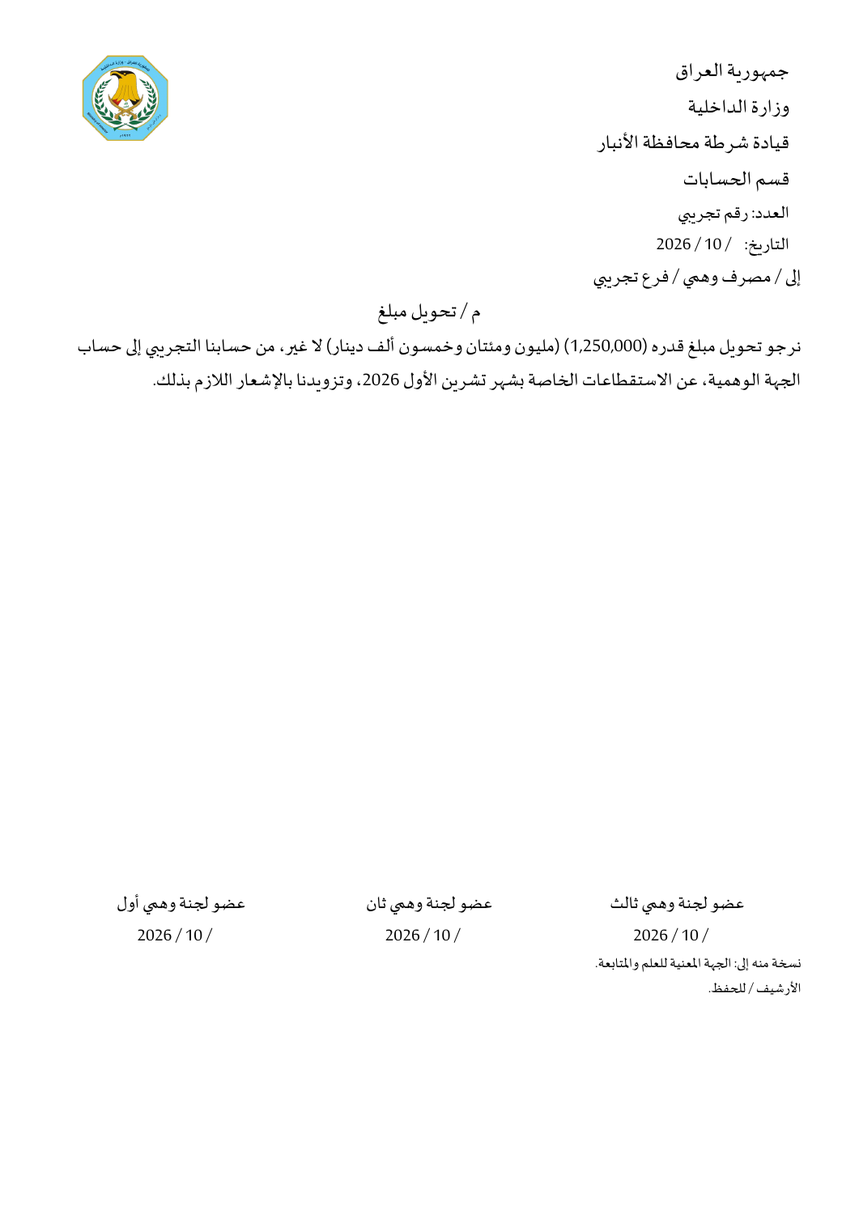
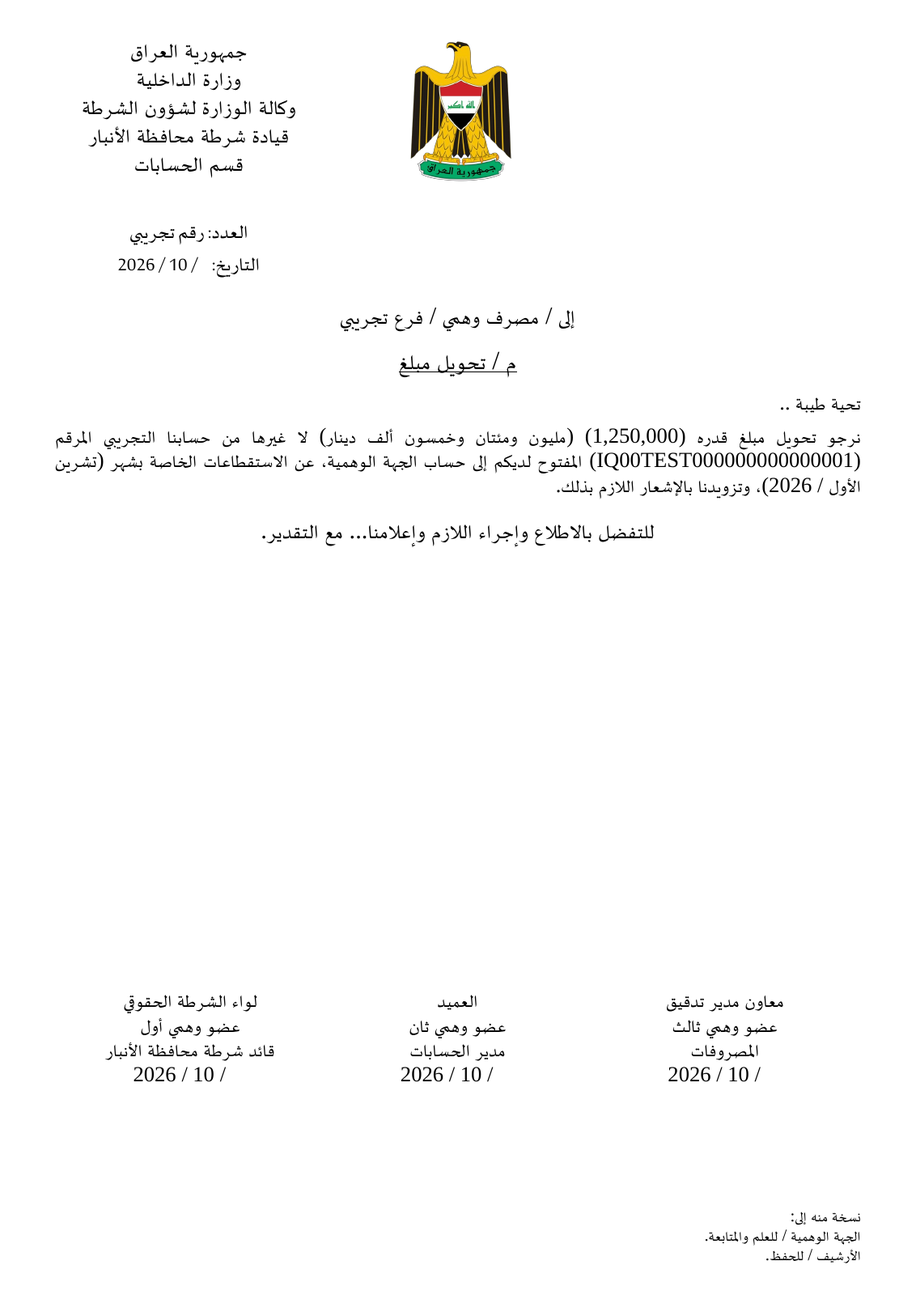
Align transfer PDF layout with original letter references

diff --git a/SalaryApp/TransferAdaptivePDF.swift b/SalaryApp/TransferAdaptivePDF.swift
@@ -31,6 +31,8 @@ nonisolated enum TransferAdaptivePDF {
     private struct TextLine {
         let text: String
         let font: CTFont
+        let underline: Bool
+        let justify: Bool
         let height: CGFloat
         let ascent: CGFloat
     }
@@ -54,7 +56,7 @@ nonisolated enum TransferAdaptivePDF {
         guard let face = UIFont(name: name, size: size) else { throw Failure.noFont }
         return CTFontCreateWithName(face.fontName as CFString, size, nil)
     }
-    private static func lines(_ text: String, font: CTFont, width: CGFloat) throws -> [TextLine] {
+    private static func lines(_ text: String, font: CTFont, width: CGFloat, underline: Bool = false, justify: Bool = false, spacing: CGFloat = 3) throws -> [TextLine] {
         guard text.utf8.count <= 100_000, width > 8 else { throw Failure.invalid }
         if text.isEmpty { return [] }
         let attr = NSAttributedString(string: text, attributes: [
@@ -62,7 +64,7 @@ nonisolated enum TransferAdaptivePDF {
             NSAttributedString.Key(kCTParagraphStyleAttributeName as String): rtl
         ])
         let typesetter = CTTypesetterCreateWithAttributedString(attr)
-        let height = ceil(CTFontGetAscent(font) + CTFontGetDescent(font) + CTFontGetLeading(font)) + 3
+        let height = ceil(CTFontGetAscent(font) + CTFontGetDescent(font) + CTFontGetLeading(font)) + spacing
         var result: [TextLine] = [], offset = 0
         while offset < attr.length {
             if result.count.isMultiple(of: 128) { try Task.checkCancellation() }
@@ -72,7 +74,9 @@ nonisolated enum TransferAdaptivePDF {
             let measured = CTLineGetTypographicBounds(line, nil, nil, nil) - CTLineGetTrailingWhitespaceWidth(line)
             guard measured <= Double(width) + 0.5 else { throw Failure.doesNotFit }
             let value = (text as NSString).substring(with: NSRange(location: offset, length: count))
-            result.append(TextLine(text: value, font: font, height: height, ascent: CTFontGetAscent(font)))
+            result.append(TextLine(text: value, font: font, underline: underline,
+                                   justify: justify && offset + count < attr.length && !value.hasSuffix("\n"),
+                                   height: height, ascent: CTFontGetAscent(font)))
             guard result.count <= 20_000 else { throw Failure.doesNotFit }
             offset += count
         }
@@ -82,18 +86,21 @@ nonisolated enum TransferAdaptivePDF {
                       sakkalBold: Data?, group: Bool) throws {
         guard blocks.count >= 7, !FileManager.default.fileExists(atPath: destination.path),
               case let .paragraph(header) = blocks[0], case let .paragraph(reference) = blocks[1],
-              let logo = UIImage(named: "HomeLogo")?.cgImage else { throw Failure.invalid }
+              let logo = UIImage(named: "IraqEmblem")?.cgImage else { throw Failure.invalid }
         let headerFont = try font(header, sakkal: sakkalBold)
         let refFont = try font(reference, sakkal: sakkalBold)
-        let headerLines = try lines(header.text, font: headerFont, width: contentWidth - 86)
-        let refLines = try lines(reference.text, font: refFont, width: contentWidth - 86)
-        let fixedHeight = (headerLines + refLines).reduce(CGFloat.zero) { $0 + $1.height }
-        guard !headerLines.isEmpty, !refLines.isEmpty, fixedHeight <= 205 else { throw Failure.doesNotFit }
+        let headingWidth: CGFloat = 190
+        let headerLines = try lines(header.text, font: headerFont, width: headingWidth)
+        let refLines = try lines(reference.text, font: refFont, width: headingWidth)
+        guard !headerLines.isEmpty, !refLines.isEmpty,
+              headerLines.reduce(CGFloat.zero, { $0 + $1.height }) <= 123,
+              refLines.reduce(CGFloat.zero, { $0 + $1.height }) <= 58 else { throw Failure.doesNotFit }
         var pages: [[Draw]] = [[]]
-        var y: CGFloat = margin
+        var y: CGFloat = 23
         // يترك المتن مساحة ثابتة للتواقيع والنسخ أسفل صفحة الكتاب.
-        var limit: CGFloat = 640
+        var limit: CGFloat = 590
         var expectingFooter = false
+        var signatureEnd: CGFloat?
         func add(_ operation: Draw) { pages[pages.count - 1].append(operation) }
         func nextPage() throws {
             guard pages.count < 4000 else { throw Failure.doesNotFit }
@@ -106,11 +113,21 @@ nonisolated enum TransferAdaptivePDF {
                 y += line.height
             }
         }
-        add(.logo(CGRect(x: margin, y: margin, width: 66, height: 66)))
-        try addLines(headerLines, x: margin + 86, width: contentWidth - 86, flush: 1)
-        try addLines(refLines, x: margin + 86, width: contentWidth - 86, flush: 1)
-        y = max(y, margin + 72) + 10
+        // مواضع ثابتة مأخوذة من هيئة النماذج: الترويسة يساراً وشعار الجمهورية وسط الصفحة.
+        add(.logo(CGRect(x: 271.2, y: 36.1, width: 86.4, height: 107.9)))
+        try addLines(headerLines, x: 28, width: headingWidth, flush: 0.5)
+        y = max(150, y + 8)
+        try addLines(refLines, x: 28, width: headingWidth, flush: 1)
+        y = max(220, y + 12)
         var afterBreak = false
+        var needsClosing = false
+        func addClosing() throws {
+            let closing = TransferWordDocument.Paragraph(text: "للتفضل بالاطلاع وإجراء اللازم وإعلامنا... مع التقدير.", font: "Times New Roman", halfPoints: 32, bold: true, centered: true)
+            let closingFont = try font(closing, sakkal: sakkalBold)
+            y += 15
+            try addLines(lines(closing.text, font: closingFont, width: contentWidth), x: margin, width: contentWidth, flush: 0.5)
+            needsClosing = false
+        }
         for block in blocks.dropFirst(2) {
             try Task.checkCancellation()
             switch block {
@@ -118,11 +135,25 @@ nonisolated enum TransferAdaptivePDF {
                 guard !expectingFooter else { throw Failure.invalid }
                 try nextPage(); limit = bottom; afterBreak = true
             case .paragraph(let p):
+                if needsClosing && p.text.hasPrefix("المرفقات:") { try addClosing() }
+                if p.text.hasPrefix("نرجو تحويل مبلغ قدره") {
+                    y += 18
+                    let salutation = TransferWordDocument.Paragraph(text: "تحية طيبة ..", font: "Times New Roman", halfPoints: 28, bold: true)
+                    let salutationFont = try font(salutation, sakkal: sakkalBold)
+                    try addLines(lines(salutation.text, font: salutationFont, width: contentWidth), x: margin, width: contentWidth, flush: 1)
+                    y += 7; needsClosing = true
+                }
                 let face = try font(p, sakkal: sakkalBold)
-                let ls = try lines(p.text, font: face, width: contentWidth)
+                let ls = try lines(p.text, font: face, width: contentWidth,
+                                   underline: p.centered && p.text.hasPrefix("م /"),
+                                   justify: p.text.hasPrefix("نرجو تحويل مبلغ قدره"),
+                                   spacing: expectingFooter ? 0 : 3)
                 if expectingFooter {
-                    y = 741; limit = bottom
-                    guard y + ls.reduce(CGFloat.zero, { $0 + $1.height }) <= bottom else { throw Failure.doesNotFit }
+                    let footerHeight = ls.reduce(CGFloat.zero, { $0 + $1.height })
+                    let footerBottom: CGFloat = 832
+                    guard let signatureEnd, footerHeight <= footerBottom - margin else { throw Failure.doesNotFit }
+                    y = footerBottom - footerHeight; limit = footerBottom
+                    guard y >= signatureEnd + 8 else { throw Failure.doesNotFit }
                     expectingFooter = false
                 }
                 try addLines(ls, x: margin, width: contentWidth, flush: p.centered ? 0.5 : 1)
@@ -163,10 +194,12 @@ nonisolated enum TransferAdaptivePDF {
                 }
                 if !table.showBorders {
                     guard table.rows.count == 1 else { throw Failure.invalid }
-                    let height = try layout(table.rows[0], bold: false).1
-                    guard height <= 72 else { throw Failure.doesNotFit }
-                    y = 662; limit = 735
-                    try drawRow(table.rows[0], bold: false)
+                    if needsClosing { try addClosing() }
+                    let height = try layout(table.rows[0], bold: true).1
+                    guard height <= 125 else { throw Failure.doesNotFit }
+                    y = 610; limit = 736
+                    try drawRow(table.rows[0], bold: true)
+                    signatureEnd = y
                     expectingFooter = true
                     continue
                 }
@@ -222,11 +255,19 @@ nonisolated enum TransferAdaptivePDF {
                             NSAttributedString.Key(kCTFontAttributeName as String): item.font,
                             NSAttributedString.Key(kCTParagraphStyleAttributeName as String): rtl
                         ])
-                        let line = CTLineCreateWithAttributedString(text)
+                        let originalLine = CTLineCreateWithAttributedString(text)
+                        let line = item.justify ? (CTLineCreateJustifiedLine(originalLine, 1, Double(rect.width)) ?? originalLine) : originalLine
                         cg.saveGState(); cg.textMatrix = CGAffineTransform(scaleX: 1, y: -1)
-                        cg.textPosition = CGPoint(x: rect.minX + CGFloat(CTLineGetPenOffsetForFlush(line, flush, Double(rect.width))),
-                                                  y: rect.minY + item.ascent)
+                        let x = rect.minX + CGFloat(CTLineGetPenOffsetForFlush(line, flush, Double(rect.width)))
+                        cg.textPosition = CGPoint(x: x, y: rect.minY + item.ascent)
                         CTLineDraw(line, cg); cg.restoreGState(); cg.textMatrix = .identity
+                        if item.underline {
+                            let lineWidth = CGFloat(CTLineGetTypographicBounds(line, nil, nil, nil) - CTLineGetTrailingWhitespaceWidth(line))
+                            cg.saveGState(); UIColor.black.setStroke(); cg.setLineWidth(0.7)
+                            cg.move(to: CGPoint(x: x, y: rect.minY + item.ascent + 2))
+                            cg.addLine(to: CGPoint(x: x + lineWidth, y: rect.minY + item.ascent + 2))
+                            cg.strokePath(); cg.restoreGState()
+                        }
                     }
                 }
             }

diff --git a/SalaryApp/TransferWordGroupDraft.swift b/SalaryApp/TransferWordGroupDraft.swift
@@ -18,6 +18,16 @@ nonisolated enum TransferWordGroupDraft {
               let third = custom.committeeThird, let footer = custom.footer else { throw Failure.incomplete }
         return LetterText(header: header, fixedNumber: fixedNumber, committee: [first, second, third], footer: footer)
     }
+    /// الصفات ثابتة كما ظهرت في النماذج الأصلية، والأسماء من تخصيص المستخدم.
+    static func signatureCells(_ committee: [String], date: String, adaptivePDF: Bool) -> [String] {
+        guard committee.count == 3 else { return [] }
+        guard adaptivePDF else { return committee.map { $0 + "\n" + date } }
+        return [
+            "معاون مدير تدقيق\n\(committee[0])\nالمصروفات\n\(date)",
+            "العميد\n\(committee[1])\nمدير الحسابات\n\(date)",
+            "لواء الشرطة الحقوقي\n\(committee[2])\nقائد شرطة محافظة الأنبار\n\(date)"
+        ]
+    }
     static func write(plan: TransferWordGroupPlan, month: String, payerIBAN: String,
                       text: LetterText, destination: URL, sakkalBold: Data? = nil, adaptivePDF: Bool = false) throws {
         func nonempty(_ s: String) -> Bool { !s.trimmingCharacters(in: .whitespacesAndNewlines).isEmpty }
@@ -31,17 +41,24 @@ nonisolated enum TransferWordGroupDraft {
         guard let amount = values["AMOUNT"], let words = values["AMOUNT_WORDS"],
               let monthName = values["MONTH"], let year = values["YEAR"] else { throw Failure.incomplete }
         let body = "نرجو تحويل مبلغ قدره (\(amount)) (\(words)) لا غيرها من حسابنا المرقم (\(normalizedPayer)) المفتوح لديكم إلى الحسابات المدرجة تفاصيلها في القائمة المرفقة مع قرص بصيغة (CSV) عن استقطاعات شهر (\(monthName) / \(year)) وتزويدنا بالإشعار اللازم بذلك."
-        let signatureCells = text.committee.map { $0 + "\n" + period.signatureDate }
+        let signatureCells = Self.signatureCells(text.committee, date: period.signatureDate, adaptivePDF: adaptivePDF)
         let signatures = TransferWordDocument.Table(headers: [], rows: [signatureCells], font: "Times New Roman", halfPoints: 32,
                                                      columnWeights: [1, 1, 1], showBorders: false)
-        let blocks: [TransferWordDocument.Block] = [
-            .paragraph(.init(text: text.header, font: adaptivePDF ? "Sakkal Majalla" : "Times New Roman", halfPoints: 32, bold: true)),
-            .paragraph(.init(text: "العدد: \(text.fixedNumber)\nالتاريخ: \(period.signatureDate)", halfPoints: 30, bold: true)),
-            .paragraph(.init(text: "إلى / مصرف الرافدين / فرع الأنبار", font: "Arial", halfPoints: 32, bold: true)),
+        var blocks: [TransferWordDocument.Block] = [
+            .paragraph(.init(text: text.header, font: "Times New Roman", halfPoints: 32, bold: true)),
+            .paragraph(.init(text: "العدد: \(text.fixedNumber)\nالتاريخ: \(period.signatureDate)", font: adaptivePDF ? "Sakkal Majalla" : "Times New Roman", halfPoints: adaptivePDF ? 36 : 30, bold: true)),
+            .paragraph(.init(text: "إلى / مصرف الرافدين / فرع الأنبار", font: "Arial", halfPoints: 32, bold: true, centered: adaptivePDF)),
             .paragraph(.init(text: "م / تحويل مبلغ", font: "Arial", halfPoints: 32, bold: true, centered: true)),
-            .paragraph(.init(text: body, halfPoints: 28)),
+            .paragraph(.init(text: body, halfPoints: 28))
+        ]
+        if adaptivePDF {
+            let count = plan.table.rows.count - 1
+            guard count > 0 else { throw Failure.incomplete }
+            blocks.append(.paragraph(.init(text: "المرفقات:\nقائمة أسماء الحسابات من تسلسل (1) لغاية تسلسل (\(count))\nقرص (CSV).", halfPoints: 24, bold: true)))
+        }
+        blocks += [
             .table(signatures),
-            .paragraph(.init(text: text.footer, halfPoints: 24)),
+            .paragraph(.init(text: text.footer, halfPoints: 24, bold: adaptivePDF)),
             .pageBreak,
             .paragraph(.init(text: "استقطاعات قيادة شرطة الأنبار لشهر (\(monthName) / \(year))", halfPoints: 28, bold: true, centered: true)),
             .table(plan.table)

diff --git a/SalaryApp/TransferWordPayrollDraft.swift b/SalaryApp/TransferWordPayrollDraft.swift
@@ -32,19 +32,19 @@ nonisolated enum TransferWordPayrollDraft {
         default: throw Failure.incomplete
         }
         let body = "نرجو تحويل مبلغ قدره (\(amount)) (\(words)) لا غيرها من حسابنا المرقم (\(plan.payerIBAN)) المفتوح لديكم إلى حساب (\(plan.beneficiaryName)) المرقم (\(plan.beneficiaryIBAN)) (مصرف الرافدين / فرع الأنبار) \(reason) لشهر (\(monthName) / \(year)) وتزويدنا بالإشعار اللازم بذلك."
-        let signatureCells = text.committee.map { $0 + "\n" + period.signatureDate }
+        let signatureCells = TransferWordGroupDraft.signatureCells(text.committee, date: period.signatureDate, adaptivePDF: adaptivePDF)
         let signatures = TransferWordDocument.Table(headers: [], rows: [signatureCells], font: "Times New Roman", halfPoints: 32,
                                                      columnWeights: [1, 1, 1], showBorders: false)
         var blocks: [TransferWordDocument.Block] = [
-            .paragraph(.init(text: text.header, font: "Sakkal Majalla", halfPoints: 36, bold: true)),
-            .paragraph(.init(text: "العدد: \(text.fixedNumber)\nالتاريخ: \(period.signatureDate)", halfPoints: 30, bold: true)),
-            .paragraph(.init(text: "إلى / مصرف الرافدين / فرع الأنبار", font: "Arial", halfPoints: 32, bold: true)),
+            .paragraph(.init(text: text.header, font: adaptivePDF ? "Times New Roman" : "Sakkal Majalla", halfPoints: adaptivePDF ? 32 : 36, bold: true)),
+            .paragraph(.init(text: "العدد: \(text.fixedNumber)\nالتاريخ: \(period.signatureDate)", font: adaptivePDF ? "Sakkal Majalla" : "Times New Roman", halfPoints: adaptivePDF ? 36 : 30, bold: true)),
+            .paragraph(.init(text: "إلى / مصرف الرافدين / فرع الأنبار", font: "Arial", halfPoints: 32, bold: true, centered: adaptivePDF)),
             .paragraph(.init(text: "م / تحويل مبلغ", font: "Arial", halfPoints: 32, bold: true, centered: true)),
             .paragraph(.init(text: body, halfPoints: 28))
         ]
         if plan.bookID != "cash_salary", let table = plan.table { blocks.append(.table(table)) }
         blocks.append(.table(signatures))
-        blocks.append(.paragraph(.init(text: text.footer, halfPoints: 24)))
+        blocks.append(.paragraph(.init(text: text.footer, halfPoints: 24, bold: adaptivePDF)))
         if plan.bookID == "cash_salary", let table = plan.table {
             blocks.append(.pageBreak)
             blocks.append(.paragraph(.init(text: "قائمة رواتب الكاش · \(monthName) / \(year)", halfPoints: 28, bold: true, centered: true)))

diff --git a/SalaryApp/TransferWordSelfTest.swift b/SalaryApp/TransferWordSelfTest.swift
@@ -150,6 +150,9 @@ import CryptoKit
             committeeSecond: "عضو وهمي ثان", committeeThird: "عضو وهمي ثالث", footer: "هامش وهمي",
             fixedNumber: "رقم وهمي", foodContractReference: "عقد وهمي")
         let letterText = try TransferWordGroupDraft.letterText(from: custom)
+        let fixedRoles = TransferWordGroupDraft.signatureCells(letterText.committee, date: "2026 / 10 /", adaptivePDF: true)
+        try check(fixedRoles.count == 3 && fixedRoles[0].contains("معاون مدير تدقيق") &&
+                  fixedRoles[1].contains("مدير الحسابات") && fixedRoles[2].contains("قائد شرطة محافظة الأنبار"), "Adaptive PDF signature roles")
         let cash = TransferCashList(month: month, employees: [.init(id: 1, name: "موظف وهمي", rank: "رتبة وهمية", workplace: "قسم وهمي", amount: 23)])
         func content(_ url: URL) throws -> String {
             let zip = try Archive(url: url, accessMode: .read)
@@ -270,8 +273,8 @@ import CryptoKit
         let longBody = Array(repeating: "نص تجريبي طويل للتأكد من التفاف الأسطر وانتقال المحتوى.", count: 160).joined(separator: " ")
         let fixedSignatures = TransferWordDocument.Table(headers: [], rows: [["عضو أول\n2026 / 10 /", "عضو ثان\n2026 / 10 /", "عضو ثالث\n2026 / 10 /"]], font: "Times New Roman", halfPoints: 32, columnWeights: [1, 1, 1], showBorders: false)
         try TransferAdaptivePDF.write(blocks: [
-            .paragraph(.init(text: "ترويسة وهمية", font: "Sakkal Majalla", halfPoints: 36, bold: true)),
-            .paragraph(.init(text: "العدد: تجريبي\nالتاريخ: 2026 / 10 /", halfPoints: 30, bold: true)),
+            .paragraph(.init(text: "ترويسة وهمية", font: "Times New Roman", halfPoints: 32, bold: true)),
+            .paragraph(.init(text: "العدد: تجريبي\nالتاريخ: 2026 / 10 /", font: "Sakkal Majalla", halfPoints: 36, bold: true)),
             .paragraph(.init(text: "إلى / جهة وهمية")),
             .paragraph(.init(text: "م / اختبار", centered: true)),
             .paragraph(.init(text: longBody)), .table(fixedSignatures),

diff --git a/SalaryApp/TransferWordEntityDraft.swift b/SalaryApp/TransferWordEntityDraft.swift
@@ -37,16 +37,16 @@ nonisolated enum TransferWordEntityDraft {
         default: throw Failure.incomplete
         }
         let body = "نرجو تحويل مبلغ قدره (\(amount)) (\(words)) لا غيرها من حسابنا المرقم (\(plan.payerIBAN)) المفتوح لديكم \(target) \(reason) لشهر (\(monthName) / \(year)) وتزويدنا بالإشعار اللازم بذلك."
-        let signatures = TransferWordDocument.Table(headers: [], rows: [text.committee.map { $0 + "\n" + period.signatureDate }],
+        let signatures = TransferWordDocument.Table(headers: [], rows: [TransferWordGroupDraft.signatureCells(text.committee, date: period.signatureDate, adaptivePDF: adaptivePDF)],
             font: "Times New Roman", halfPoints: 32, columnWeights: [1, 1, 1], showBorders: false)
         var blocks: [TransferWordDocument.Block] = [
-            .paragraph(.init(text: text.header, font: "Sakkal Majalla", halfPoints: 36, bold: true)),
-            .paragraph(.init(text: "العدد: \(text.fixedNumber)\nالتاريخ: \(period.signatureDate)", halfPoints: 30, bold: true)),
-            .paragraph(.init(text: "إلى / مصرف الرافدين / فرع الأنبار", font: "Arial", halfPoints: 32, bold: true)),
+            .paragraph(.init(text: text.header, font: adaptivePDF ? "Times New Roman" : "Sakkal Majalla", halfPoints: adaptivePDF ? 32 : 36, bold: true)),
+            .paragraph(.init(text: "العدد: \(text.fixedNumber)\nالتاريخ: \(period.signatureDate)", font: adaptivePDF ? "Sakkal Majalla" : "Times New Roman", halfPoints: adaptivePDF ? 36 : 30, bold: true)),
+            .paragraph(.init(text: "إلى / مصرف الرافدين / فرع الأنبار", font: "Arial", halfPoints: 32, bold: true, centered: adaptivePDF)),
             .paragraph(.init(text: "م / تحويل مبلغ", font: "Arial", halfPoints: 32, bold: true, centered: true)),
             .paragraph(.init(text: body, halfPoints: 28)),
             .table(signatures),
-            .paragraph(.init(text: text.footer, halfPoints: 24))
+            .paragraph(.init(text: text.footer, halfPoints: 24, bold: adaptivePDF))
         ]
         if let table = plan.table {
             blocks.append(.pageBreak)

diff --git a/SalaryApp/TransferCompanyLetterView.swift b/SalaryApp/TransferCompanyLetterView.swift
@@ -47,7 +47,7 @@ struct TransferCompanyLetterView: View {
                 if references.isEmpty { Text(tr("استورد حزمة مراجع الكتب من صفحة ملفات التحويل.", "Import the letter reference package from transfer files.")).font(.footnote).foregroundStyle(.secondary) }
                 if !TransferRules.validIBAN(payerIBAN) { Text(tr("أدخل IBAN الجهة الدافعة من إعدادات ملفات التحويل.", "Enter the payer IBAN in transfer settings.")).font(.footnote).foregroundStyle(.secondary) }
                 if !sourceIsCurrent { Text(tr("تغيّرت البيانات؛ ارجع إلى ملفات التحويل لإعادة التحميل.", "Data changed; return to transfer files to reload.")).font(.footnote).foregroundStyle(.orange) }
-                if currentBoldFont.isEmpty { Text(tr("استورد خط ساكال العريض من تخصيص الكتب لإعداد ترويسة PDF.", "Import the bold Sakkal font in letter settings to prepare the PDF header.")).font(.footnote).foregroundStyle(.orange) }
+                if currentBoldFont.isEmpty { Text(tr("استورد خط ساكال العريض من تخصيص الكتب لإعداد العدد والتاريخ.", "Import the bold Sakkal font in letter settings to prepare the reference and date.")).font(.footnote).foregroundStyle(.orange) }
                 Text(tr("اضبط العدد والترويسة واللجنة والهامش ورقم عقد الإطعام من تخصيص الكتب. المشاركة معطّلة حتى اكتمال التدقيق.", "Set the reference, header, committee, footer and food contract reference in letter settings. Sharing remains disabled until verification is complete.")).font(.footnote).foregroundStyle(.secondary)
             }
         }

diff --git a/SalaryApp/TransferLetterDraftView.swift b/SalaryApp/TransferLetterDraftView.swift
@@ -120,7 +120,7 @@ struct TransferLetterDraftView: View {
                 }
                 if !current { Text(tr("تغيّرت البيانات؛ ارجع إلى ملفات التحويل لإعادة التحميل.", "Data changed; return to transfer files to reload.")).foregroundStyle(.orange) }
                 if boldFont.isEmpty {
-                    Text(tr("استورد خط ساكال العريض من تخصيص الكتب لإعداد ترويسة PDF.", "Import the bold Sakkal font in letter settings to prepare the PDF header."))
+                    Text(tr("استورد خط ساكال العريض من تخصيص الكتب لإعداد العدد والتاريخ.", "Import the bold Sakkal font in letter settings to prepare the reference and date."))
                         .font(.footnote).foregroundStyle(.orange)
                 }
                 Button(tr("معاينة مسودة PDF", "Preview PDF draft"), systemImage: "doc.text.magnifyingglass") { prepareWord() }

diff --git a/SalaryApp/TransferWordDraftGenerator.swift b/SalaryApp/TransferWordDraftGenerator.swift
@@ -18,7 +18,7 @@ nonisolated enum TransferWordDraftGenerator {
                      references: Data, accountLinks: Data, payerName: String, payerIBAN: String,
                      customization: TransferLetterCustomization, sakkalBold: Data? = nil, adaptivePDF: Bool = false) throws -> Result {
         let text = try TransferWordGroupDraft.letterText(from: customization)
-        if bookID != "rafidain_group", bookID != "other_banks_group", let sakkalBold {
+        if !adaptivePDF, bookID != "rafidain_group", bookID != "other_banks_group", let sakkalBold {
             let font = try TransferHeaderFont.make(data: sakkalBold, style: .bold, size: 18)
             let header = text.header.filter { !$0.isNewline }
             try TransferHeaderFont.requireSupported(header, font: font)

diff --git a/AGENTS.md b/AGENTS.md
@@ -167,7 +167,7 @@
 - **كتب التحويل PDF**: العمل قيد الإعداد؛ تعمل على الآيفون دون السيرفر، والنماذج الأصلية تحتوي بيانات حقيقية ولا تُرفع للمستودع. المبالغ من ملفي الرواتب والاستقطاعات؛ التاريخ يترك اليوم فارغاً ويعرض الشهر والسنة، ويظل العدد الموحّد كما هو في النماذج. أسماء الرافدين فرع الأنبار من قيود الشهر، وعند عدم الاتساع يوضع جدولها منفصلاً مع إبقاء مجال التواقيع. جدول كل مجموعة من الرافدين وبقية المصارف في صفحة مستقلة واحدة؛ عند عدم إمكان احتواء النصوص بوضوح يُمنع التصدير برسالة بدلاً من حذف أو بتر صفوف. أمانات الرواتب تشمل قائمة الكاش بالاسم والرتبة ومحل العمل والصافي. لا تُمكّن تصدير الكتب حتى اكتمال القوالب والتحقق من المبالغ والجداول والتنسيق على جهاز حقيقي.
 - أحدث توجيه من المالك: إنشاء كتب التحويل بصيغة PDF مرنة على الآيفون دون السيرفر، مع ترويسة وشعار وعدد وتاريخ وتواقيع ثابتة، ومتن يتكيف مع النص. المراجع الخاصة تبقى مستخدمة لمطابقة حساب الدفع والمستفيد؛ لا ترفع المراجع الأصلية أو الخطوط إلى المستودع. المشاركة معطّلة حتى مراجعة البيانات والتنسيق على جهاز حقيقي.
 - عدّل المالك شرط المطابقة الحرفية: يُعتمد مضمون الكتاب وخطه وتنسيقه العام، ويُسمح بتحرك أسطر المتن وامتداد قوائم الأسماء لاحتواء البيانات. تبقى صحة المبالغ والأسماء والتوقيعات وقاعدة صفحة الجدول الواحدة للمجموعتين مطلوبة؛ لا يجوز قص المحتوى أو اعتماد مخرجات غير مدققة.
-- `TransferAdaptivePDF` مولّد مسودة PDF جديد يعتمد بيانات الكتب وخططها، ويقيس أسطر المتن والجداول قبل الرسم، ويثبت التواقيع أسفل صفحة الكتاب، ويرفض جدول المجموعة الذي لا يتسع في صفحة واحدة. يتحقق من ظهور المبالغ والحسابات رقمياً بعد الإنشاء؛ لا يثبت ذلك تطابق كل الأسماء أو التخطيط البصري. لم يُترجم أو يُشغّل أو يُختبر على جهاز بعد. معاينة PDF تجريبية والمشاركة معطلة. أعد استخدام خط ساكال الذي يستورده المالك والشعار داخل التطبيق؛ لا تسجل خطاً خاصاً في المستودع.
+- `TransferAdaptivePDF` مولّد مسودة PDF جديد يعتمد بيانات الكتب وخططها ويقيس الأسطر والجداول قبل الرسم. بعد اعتراض المالك على مواضع الترويسة، روجعت مراجع PDF الأصلية: الترويسة والعدد والتاريخ في الأعلى يساراً، وشعار الجمهورية في الوسط، والجهة والموضوع في الوسط، وصفات التواقيع الثلاث مأخوذة من النماذج وتثبت أسفل صفحة الكتاب. يرفض جدول المجموعة الذي لا يتسع في صفحة واحدة. يتحقق من ظهور المبالغ والحسابات رقمياً بعد الإنشاء؛ لا يثبت ذلك تطابق كل الأسماء أو التخطيط البصري. لم يُترجم أو يُشغّل أو يُختبر على جهاز بعد. معاينة PDF تجريبية والمشاركة معطلة. خط ساكال يستورده المالك؛ لا ترفع الخطوط أو المراجع الأصلية أو بيانات المستخدم إلى المستودع.
 - `TransferWordValues` و`TransferWordTables` و`TransferWordGroupPlan` تجهز مبالغ الشهر والتفقيط والجداول مع تدقيق المصادر وCSV. ترتبط بمسودات الكتب الأحد عشر عبر `TransferWordDraftGenerator` في معاينة تجريبية فقط. لا يُعد اجتياز اختبارات البيانات إثباتاً لصحة شكل Word أو جاهزية المشاركة.
 - `TransferWordVerification` يقرأ محتوى ملف Word الناتج ويقارن نص المبلغ ورقمه والشهر وحساب الدفع والمستفيد والتوقيعات والجدول بلقطة البيانات قبل عرض المسودة. لا يقرأ ترتيب الصفحات أو يثبت شكل الخط؛ يبقى فحص Word الحقيقي وشرط صفحة جدول المجموعة شرطين مستقلين.
 - ملف إعدادات Word الخاص يُجهّز محلياً من نماذج المالك بواسطة `ci/prepare_transfer_word_defaults.py` خارج المستودع؛ يحتوي أسماء اللجنة والهوامش والعدد ومرجع العقد ولا يجوز رفعه. يتحقق السكربت من وحدة العدد ومرجع العقد ويرفض تطابق أسماء اللجنة الغامض؛ يجب على المالك مراجعة الأسماء والعدد بعد الاستيراد. `TransferWordDefaults` يرفض الحزمة الناقصة أو التي لا تطابق بصمات مراجع PDF المحفوظة، ويحتفظ بتخصيصات المستخدم السابقة عند الدمج. تُنسخ الإعدادات وبصمات مراجعها ضمن مفتاح التخصيصات الموجود في النسخة الاحتياطية، ويُرفض إنشاء المعاينة عند تغيّر المراجع حتى إعادة استيراد الإعدادات المطابقة. تُرفق لكتابي تنفيذ الرمادي وصندوق الإسكان قائمة أسماء من قيود الجهة المدققة في صفحة منفصلة.
